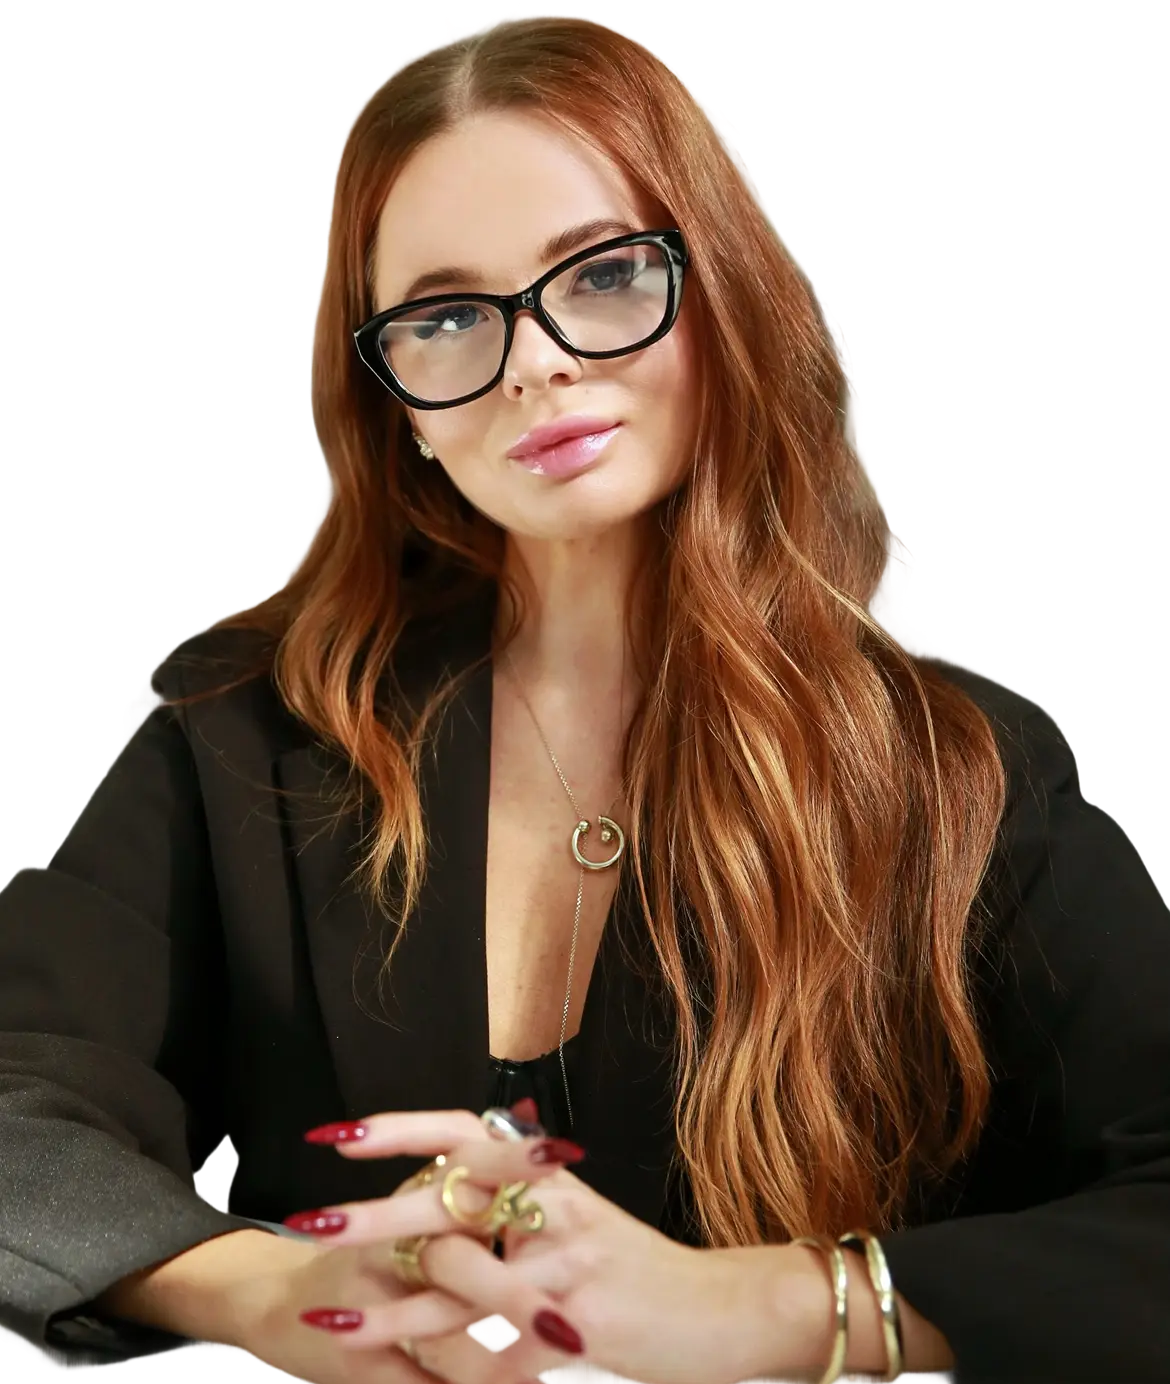
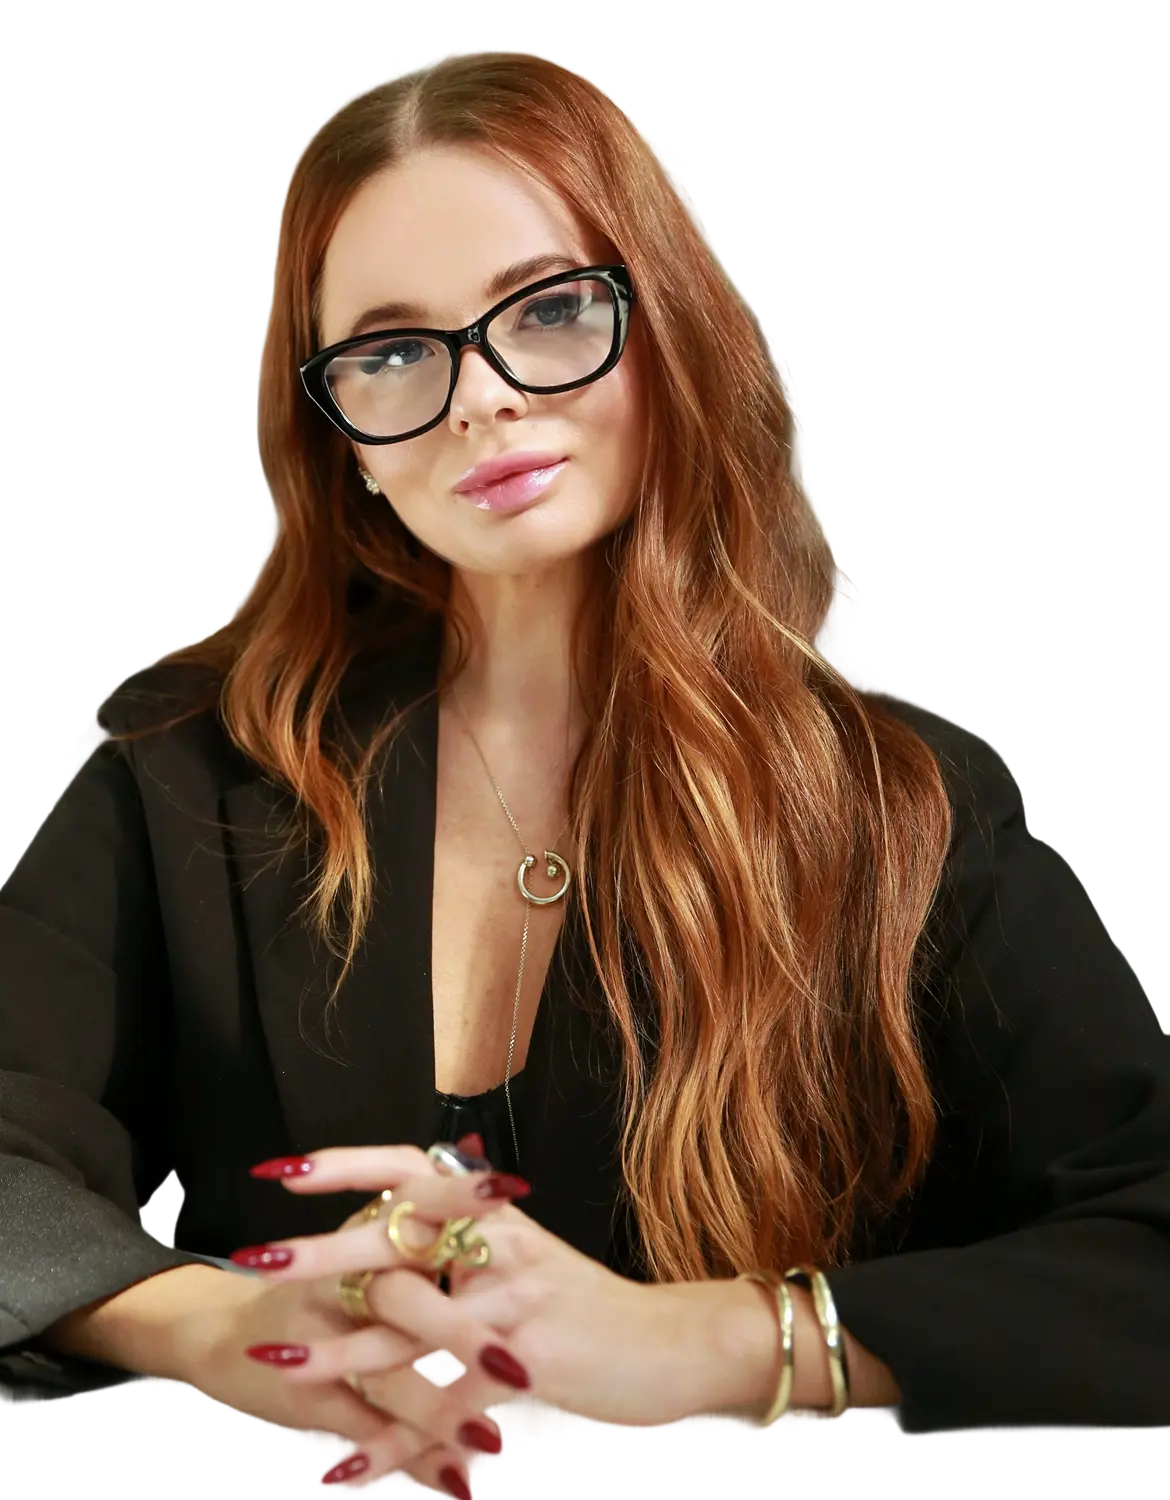
Images
changed Hero image and all team images

diff --git a/src/components/ServicesPages/TeamSection/TeamSection.styled.ts b/src/components/ServicesPages/TeamSection/TeamSection.styled.ts
@@ -82,25 +82,27 @@ export const LeftImgCont = styled.div`
   max-width: 390px;
   width: 100%;
   overflow: hidden;
-  min-height: 365px;
+  height: auto;
+  min-height: 370px;
 
   bottom: 0;
   left: 0;
-  z-index: 2;
 
   &.daria {
-    min-height: 405px;
+    min-height: 370px;
+
+    img {
+      bottom: -30px;
+      left: -50px;
+    }
   }
 
   img {
     position: absolute;
     bottom: -40px;
-    left: -90px;
-
-    &.daria {
-      bottom: -30px;
-      left: -120px;
-    }
+    left: -20px;
+    width: 80%;
+    height: auto;
   }
 `;
 
@@ -109,19 +111,13 @@ export const RightImgCont = styled.div`
   max-width: 390px;
   width: 100%;
   overflow: hidden;
-  min-height: 365px;
-
-  &.tatyana-height {
-    min-height: 405px;
-  }
+  min-height: 370px;
+  z-index: 3;
 
   img {
     position: absolute;
-    bottom: -40px;
-    right: -110px;
-
-    &.tatyana-height {
-      bottom: 0;
-    }
+    bottom: -55px;
+    right: -40px;
+    width: 80%;
   }
 `;

diff --git a/src/components/HomePage/OurTeamSection/TeamCards/TeamCards.styled.ts b/src/components/HomePage/OurTeamSection/TeamCards/TeamCards.styled.ts
@@ -2,22 +2,45 @@ import styled from "@emotion/styled";
 
 export const CardCont = styled.article`
   position: relative;
-
-  img {
-    margin-bottom: 35px;
-  }
 `;
 
 export const NameCont = styled.div`
   position: absolute;
-  top: 0;
-  left: 30px;
-  max-width: 150px;
-  width: 100%;
+  top: 20px;
   font-weight: 700;
   font-size: 20px;
   color: #000;
   line-height: 112%;
+
+  &.team-irina {
+    right: 15px;
+  }
+
+  &.team-tatyana {
+    max-width: 145px;
+    width: 100%;
+    left: 20px;
+    top: 160px;
+  }
+
+  &.team-maria {
+    max-width: 130px;
+    width: 100%;
+    right: 0;
+    top: 30px;
+  }
+
+  &.team-anastasia {
+    max-width: 130px;
+    width: 100%;
+    right: 0;
+  }
+
+  &.team-daria {
+    left: 20px;
+    max-width: 130px;
+    width: 100%;
+  }
 
   p {
     font-weight: 500;

diff --git a/src/components/HomePage/HeroSection/HeroText/HeroText.styled.ts b/src/components/HomePage/HeroSection/HeroText/HeroText.styled.ts
@@ -4,19 +4,20 @@ import { motion } from "framer-motion";
 export const Wrapper = styled(motion.div)`
   max-width: 390px;
   padding: 0 15px;
-  margin: 0 auto;
+  margin: 0 auto 10px;
 `;
 
 export const HeroTitle = styled(motion.h1)`
   font-weight: 500;
-  font-size: 26px;
+  font-size: 20px;
   font-family: "Unbounded";
-  line-height: 32px;
+  line-height: 24px;
   margin-bottom: 13px;
 `;
 
 export const TitleAccent = styled.span`
   color: #a066ff;
+  font-size: 24px;
 `;
 
 export const SubTitle = styled(motion.p)`

diff --git a/src/components/HomePage/OurTeamSection/StatsBadge/StatsBadge.styled.ts b/src/components/HomePage/OurTeamSection/StatsBadge/StatsBadge.styled.ts
@@ -2,7 +2,7 @@ import styled from "@emotion/styled";
 
 export const StatsWrap = styled.div`
   position: absolute;
-  bottom: 65px;
+  bottom: 100px;
   left: 35px;
   border-radius: 13px;
   background: linear-gradient(
@@ -31,12 +31,12 @@ export const StatsWrap = styled.div`
   }
 
   &.badge-left {
-    bottom: 80px;
+    bottom: 125px;
     left: 20px;
   }
 
   &.badge-right {
-    bottom: 14px;
+    bottom: 50px;
     left: 140px;
   }
 `;

diff --git a/src/components/HomePage/OurTeamSection/TeamCards/TeamCards.tsx b/src/components/HomePage/OurTeamSection/TeamCards/TeamCards.tsx
@@ -25,7 +25,7 @@ export const TeamCard: React.FC<TeamCardProps> = ({ data }) => {
 
   return (
     <CardCont aria-label={`${data.name}, ${data.role}`}>
-      <NameCont>
+      <NameCont className={`team-${data.id}`}>
         <h3>{data.name}</h3>
         <p>{data.role}</p>
       </NameCont>
